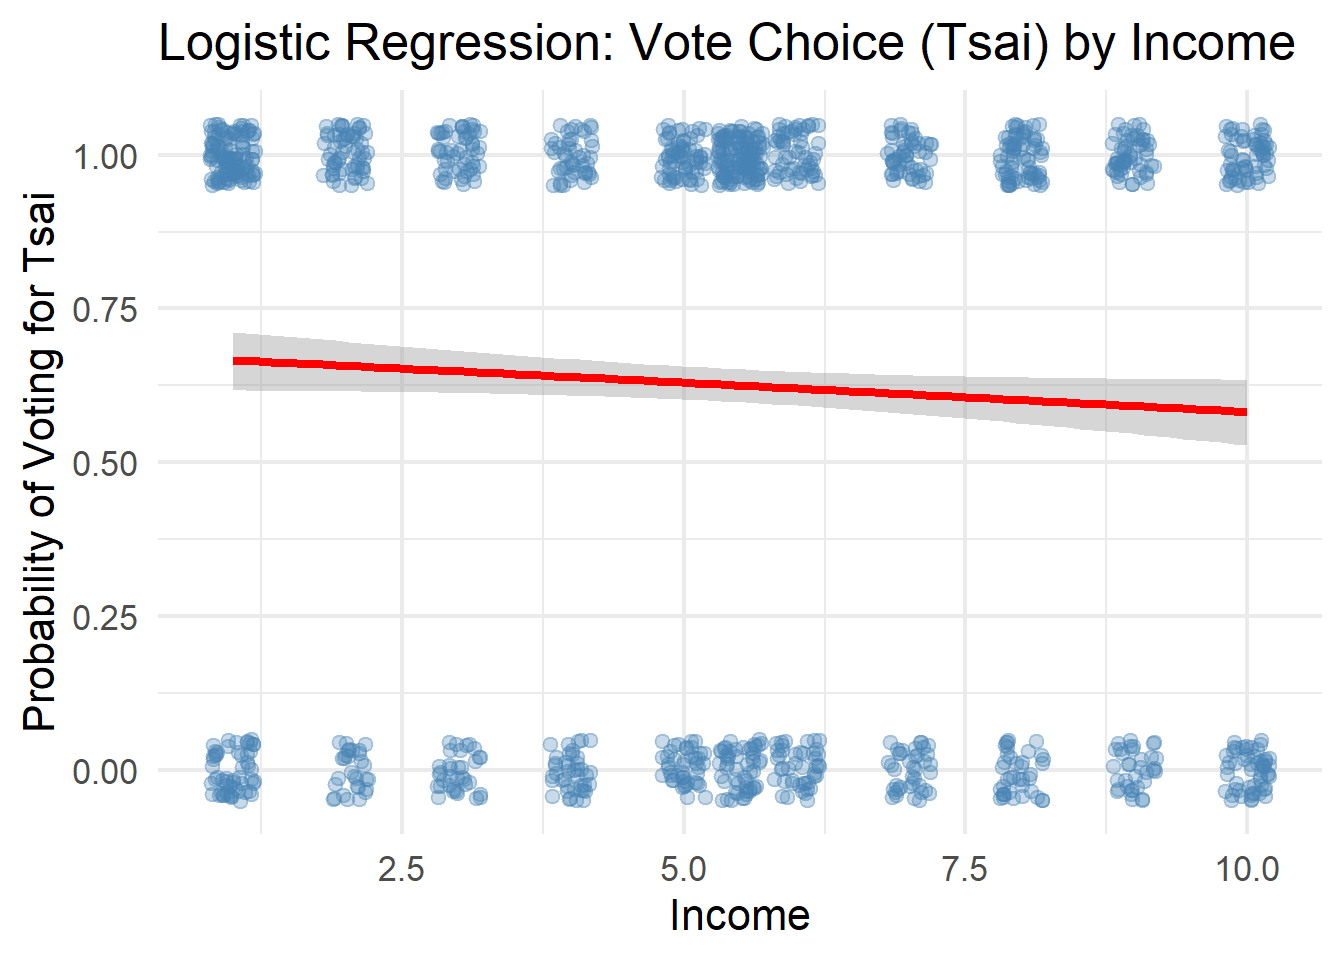
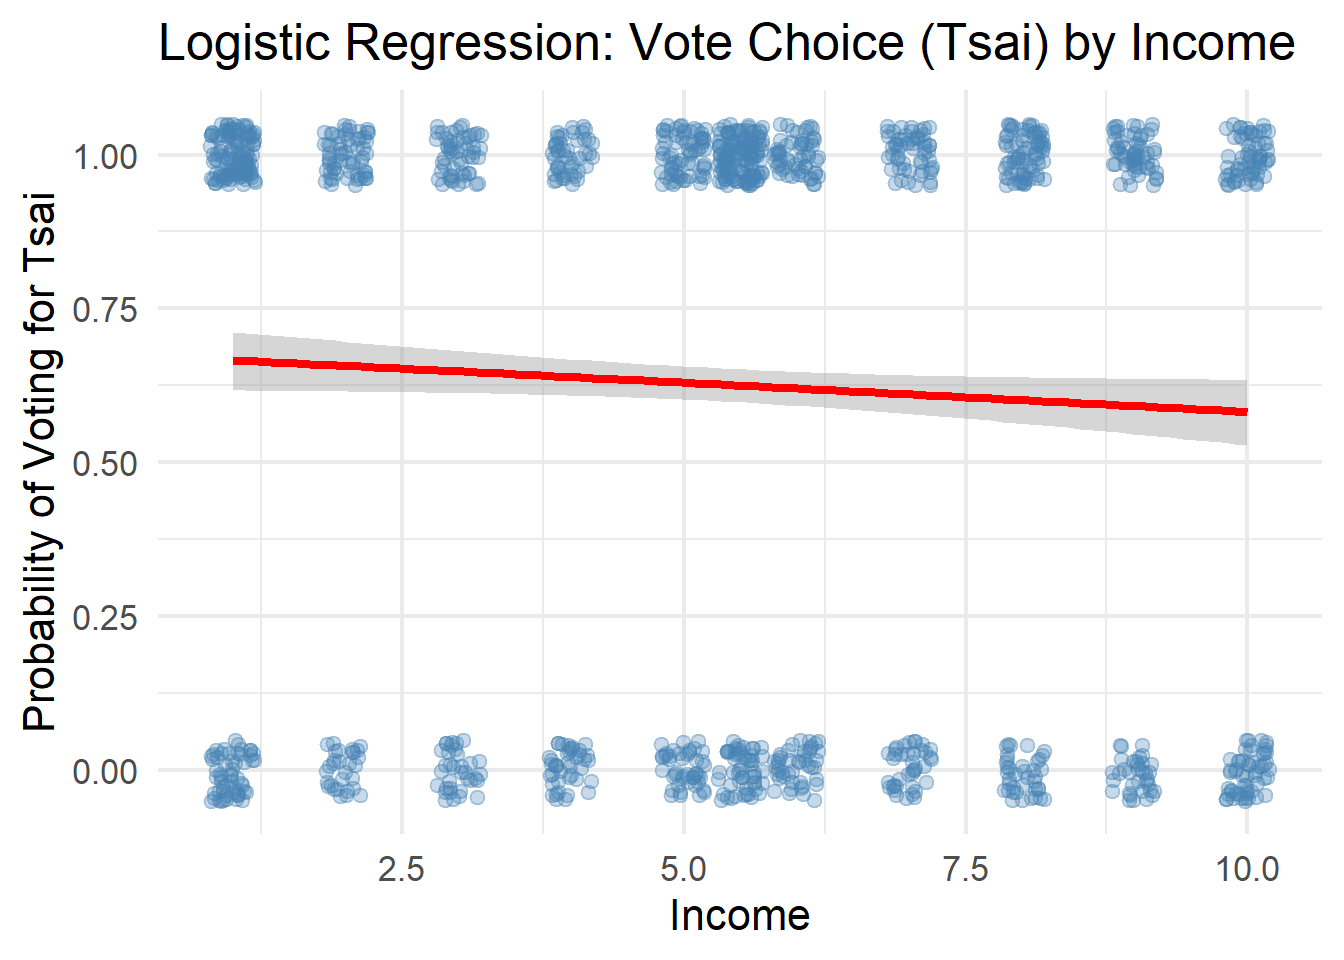
Publish assignment03 with outputs and visuals

diff --git a/assignment03.html b/assignment03.html
@@ -21,6 +21,41 @@ ul.task-list li input[type="checkbox"] {
   margin: 0 0.8em 0.2em -1em; /* quarto-specific, see https://github.com/quarto-dev/quarto-cli/issues/4556 */ 
   vertical-align: middle;
 }
+/* CSS for syntax highlighting */
+html { -webkit-text-size-adjust: 100%; }
+pre > code.sourceCode { white-space: pre; position: relative; }
+pre > code.sourceCode > span { display: inline-block; line-height: 1.25; }
+pre > code.sourceCode > span:empty { height: 1.2em; }
+.sourceCode { overflow: visible; }
+code.sourceCode > span { color: inherit; text-decoration: inherit; }
+div.sourceCode { margin: 1em 0; }
+pre.sourceCode { margin: 0; }
+@media screen {
+div.sourceCode { overflow: auto; }
+}
+@media print {
+pre > code.sourceCode { white-space: pre-wrap; }
+pre > code.sourceCode > span { text-indent: -5em; padding-left: 5em; }
+}
+pre.numberSource code
+  { counter-reset: source-line 0; }
+pre.numberSource code > span
+  { position: relative; left: -4em; counter-increment: source-line; }
+pre.numberSource code > span > a:first-child::before
+  { content: counter(source-line);
+    position: relative; left: -1em; text-align: right; vertical-align: baseline;
+    border: none; display: inline-block;
+    -webkit-touch-callout: none; -webkit-user-select: none;
+    -khtml-user-select: none; -moz-user-select: none;
+    -ms-user-select: none; user-select: none;
+    padding: 0 4px; width: 4em;
+  }
+pre.numberSource { margin-left: 3em;  padding-left: 4px; }
+div.sourceCode
+  {   }
+@media screen {
+pre > code.sourceCode > span > a:first-child::before { text-decoration: underline; }
+}
 </style>
 
 
@@ -192,7 +227,10 @@ ul.task-list li input[type="checkbox"] {
   <li><a href="#c.-vote-choice-by-income" id="toc-c.-vote-choice-by-income" class="nav-link" data-scroll-target="#c.-vote-choice-by-income">c.&nbsp;Vote Choice by Income</a></li>
   </ul></li>
   <li><a href="#what-is-the-problem-why" id="toc-what-is-the-problem-why" class="nav-link" data-scroll-target="#what-is-the-problem-why">4. What is the Problem? Why?</a></li>
-  <li><a href="#what-can-be-done-to-improve-prediction" id="toc-what-can-be-done-to-improve-prediction" class="nav-link" data-scroll-target="#what-can-be-done-to-improve-prediction">5. What Can Be Done to Improve Prediction?</a></li>
+  <li><a href="#what-can-be-done-to-improve-prediction" id="toc-what-can-be-done-to-improve-prediction" class="nav-link" data-scroll-target="#what-can-be-done-to-improve-prediction">5. What Can Be Done to Improve Prediction?</a>
+  <ul class="collapse">
+  <li><a href="#logistic-regression-plots" id="toc-logistic-regression-plots" class="nav-link" data-scroll-target="#logistic-regression-plots">Logistic Regression Plots</a></li>
+  </ul></li>
   </ul>
 </nav>
     </div>
@@ -226,59 +264,252 @@ ul.task-list li input[type="checkbox"] {
 
 <section id="setup-packages-and-data" class="level2">
 <h2 class="anchored" data-anchor-id="setup-packages-and-data">Setup: Packages and Data</h2>
-<pre class="{r} library(haven) library(tidyverse)}"><code></code></pre>
-<p><code>rrr TEDS_2016 &lt;- read_stata("https://github.com/datageneration/home/blob/master/DataProgramming/data/TEDS_2016.dta?raw=true")}</code></p>
+<div class="cell">
+<details class="code-fold">
+<summary>Code</summary>
+<div class="code-copy-outer-scaffold"><div class="sourceCode cell-code" id="cb1"><pre class="sourceCode r code-with-copy"><code class="sourceCode r"><span id="cb1-1"><a href="#cb1-1" aria-hidden="true" tabindex="-1"></a><span class="fu">library</span>(haven)</span>
+<span id="cb1-2"><a href="#cb1-2" aria-hidden="true" tabindex="-1"></a><span class="fu">library</span>(tidyverse)</span></code></pre></div><button title="Copy to Clipboard" class="code-copy-button"><i class="bi"></i></button></div>
+</details>
+</div>
+<div class="cell">
+<details class="code-fold">
+<summary>Code</summary>
+<div class="code-copy-outer-scaffold"><div class="sourceCode cell-code" id="cb2"><pre class="sourceCode r code-with-copy"><code class="sourceCode r"><span id="cb2-1"><a href="#cb2-1" aria-hidden="true" tabindex="-1"></a>TEDS_2016 <span class="ot">&lt;-</span> <span class="fu">read_stata</span>(<span class="st">"https://github.com/datageneration/home/blob/master/DataProgramming/data/TEDS_2016.dta?raw=true"</span>)</span></code></pre></div><button title="Copy to Clipboard" class="code-copy-button"><i class="bi"></i></button></div>
+</details>
+</div>
 <hr>
 </section>
 <section id="multiple-regression-model" class="level2">
 <h2 class="anchored" data-anchor-id="multiple-regression-model">1. Multiple Regression Model</h2>
-<p>I am using <code>votetsai</code> as the dependent variable and <code>Age</code>, <code>Education</code>, and <code>Income</code> as predictors.</p>
-<p><code>rrr model &lt;- lm(votetsai ~ Age + Edu + income, data = TEDS_2016) summary(model)}</code></p>
+<p>Using <code>votetsai</code> as the dependent variable and <code>age</code>, <code>edu</code>, and <code>income</code> as predictors.</p>
+<div class="cell">
+<details class="code-fold">
+<summary>Code</summary>
+<div class="code-copy-outer-scaffold"><div class="sourceCode cell-code" id="cb3"><pre class="sourceCode r code-with-copy"><code class="sourceCode r"><span id="cb3-1"><a href="#cb3-1" aria-hidden="true" tabindex="-1"></a>model <span class="ot">&lt;-</span> <span class="fu">lm</span>(votetsai <span class="sc">~</span> age <span class="sc">+</span> edu <span class="sc">+</span> income, <span class="at">data =</span> TEDS_2016)</span>
+<span id="cb3-2"><a href="#cb3-2" aria-hidden="true" tabindex="-1"></a><span class="fu">summary</span>(model)</span></code></pre></div><button title="Copy to Clipboard" class="code-copy-button"><i class="bi"></i></button></div>
+</details>
+<div class="cell-output cell-output-stdout">
+<pre><code>
+Call:
+lm(formula = votetsai ~ age + edu + income, data = TEDS_2016)
+
+Residuals:
+    Min      1Q  Median      3Q     Max 
+-0.8095 -0.5806  0.3123  0.3751  0.6035 
+
+Coefficients:
+             Estimate Std. Error t value Pr(&gt;|t|)    
+(Intercept)  1.085494   0.085071  12.760  &lt; 2e-16 ***
+age         -0.005045   0.001058  -4.766 2.10e-06 ***
+edu         -0.055280   0.012286  -4.499 7.45e-06 ***
+income      -0.004692   0.005155  -0.910    0.363    
+---
+Signif. codes:  0 '***' 0.001 '**' 0.01 '*' 0.05 '.' 0.1 ' ' 1
+
+Residual standard error: 0.4789 on 1253 degrees of freedom
+  (433 observations deleted due to missingness)
+Multiple R-squared:  0.02362,   Adjusted R-squared:  0.02128 
+F-statistic:  10.1 on 3 and 1253 DF,  p-value: 1.407e-06</code></pre>
+</div>
+</div>
 <hr>
 </section>
 <section id="the-regplot-function" class="level2">
 <h2 class="anchored" data-anchor-id="the-regplot-function">2. The <code>regplot</code> Function</h2>
-<p>Now I am creating a function that combines <code>lm()</code>, <code>plot()</code>, and <code>abline()</code> to plot a regression fit line.</p>
-<p><code>rrr regplot &lt;- function(x, y) {   fit &lt;- lm(y ~ x)   plot(x, y)   abline(fit, col = "red") }</code></p>
+<p>Creating a function that combines <code>lm()</code>, <code>plot()</code>, and <code>abline()</code> to plot a regression fit line.</p>
+<div class="cell">
+<details class="code-fold">
+<summary>Code</summary>
+<div class="code-copy-outer-scaffold"><div class="sourceCode cell-code" id="cb5"><pre class="sourceCode r code-with-copy"><code class="sourceCode r"><span id="cb5-1"><a href="#cb5-1" aria-hidden="true" tabindex="-1"></a>regplot <span class="ot">&lt;-</span> <span class="cf">function</span>(x, y) {</span>
+<span id="cb5-2"><a href="#cb5-2" aria-hidden="true" tabindex="-1"></a>  fit <span class="ot">&lt;-</span> <span class="fu">lm</span>(y <span class="sc">~</span> x)</span>
+<span id="cb5-3"><a href="#cb5-3" aria-hidden="true" tabindex="-1"></a>  <span class="fu">plot</span>(x, y)</span>
+<span id="cb5-4"><a href="#cb5-4" aria-hidden="true" tabindex="-1"></a>  <span class="fu">abline</span>(fit, <span class="at">col =</span> <span class="st">"red"</span>)</span>
+<span id="cb5-5"><a href="#cb5-5" aria-hidden="true" tabindex="-1"></a>}</span></code></pre></div><button title="Copy to Clipboard" class="code-copy-button"><i class="bi"></i></button></div>
+</details>
+</div>
 <hr>
 </section>
 <section id="running-regplot-on-the-dependent-variable" class="level2">
 <h2 class="anchored" data-anchor-id="running-regplot-on-the-dependent-variable">3. Running <code>regplot</code> on the Dependent Variable</h2>
 <section id="a.-vote-choice-by-age" class="level3">
 <h3 class="anchored" data-anchor-id="a.-vote-choice-by-age">a. Vote Choice by Age</h3>
-<p><code>rrr regplot(TEDS_2016$Age, TEDS_2016$votetsai) title(main = "Vote Choice (Tsai) by Age", xlab = "Age", ylab = "Vote (0 = Other, 1 = Tsai)")}</code></p>
+<div class="cell">
+<details class="code-fold">
+<summary>Code</summary>
+<div class="code-copy-outer-scaffold"><div class="sourceCode cell-code" id="cb6"><pre class="sourceCode r code-with-copy"><code class="sourceCode r"><span id="cb6-1"><a href="#cb6-1" aria-hidden="true" tabindex="-1"></a><span class="fu">regplot</span>(TEDS_2016<span class="sc">$</span>age, TEDS_2016<span class="sc">$</span>votetsai)</span>
+<span id="cb6-2"><a href="#cb6-2" aria-hidden="true" tabindex="-1"></a><span class="fu">title</span>(<span class="at">main =</span> <span class="st">"Vote Choice (Tsai) by Age"</span>,</span>
+<span id="cb6-3"><a href="#cb6-3" aria-hidden="true" tabindex="-1"></a>      <span class="at">xlab =</span> <span class="st">"Age"</span>, <span class="at">ylab =</span> <span class="st">"Vote (0 = Other, 1 = Tsai)"</span>)</span></code></pre></div><button title="Copy to Clipboard" class="code-copy-button"><i class="bi"></i></button></div>
+</details>
+<div class="cell-output-display">
+<div>
+<figure class="figure">
+<p><img src="assignment03_files/figure-html/unnamed-chunk-5-1.png" class="img-fluid figure-img" width="672"></p>
+</figure>
+</div>
+</div>
+</div>
 </section>
 <section id="b.-vote-choice-by-education" class="level3">
 <h3 class="anchored" data-anchor-id="b.-vote-choice-by-education">b. Vote Choice by Education</h3>
-<p><code>rrr regplot(TEDS_2016$Edu, TEDS_2016$votetsai) title(main = "Vote Choice (Tsai) by Education", xlab = "Education", ylab = "Vote (0 = Other, 1 = Tsai)")}</code></p>
+<div class="cell">
+<details class="code-fold">
+<summary>Code</summary>
+<div class="code-copy-outer-scaffold"><div class="sourceCode cell-code" id="cb7"><pre class="sourceCode r code-with-copy"><code class="sourceCode r"><span id="cb7-1"><a href="#cb7-1" aria-hidden="true" tabindex="-1"></a><span class="fu">regplot</span>(TEDS_2016<span class="sc">$</span>edu, TEDS_2016<span class="sc">$</span>votetsai)</span>
+<span id="cb7-2"><a href="#cb7-2" aria-hidden="true" tabindex="-1"></a><span class="fu">title</span>(<span class="at">main =</span> <span class="st">"Vote Choice (Tsai) by Education"</span>,</span>
+<span id="cb7-3"><a href="#cb7-3" aria-hidden="true" tabindex="-1"></a>      <span class="at">xlab =</span> <span class="st">"Education"</span>, <span class="at">ylab =</span> <span class="st">"Vote (0 = Other, 1 = Tsai)"</span>)</span></code></pre></div><button title="Copy to Clipboard" class="code-copy-button"><i class="bi"></i></button></div>
+</details>
+<div class="cell-output-display">
+<div>
+<figure class="figure">
+<p><img src="assignment03_files/figure-html/unnamed-chunk-6-1.png" class="img-fluid figure-img" width="672"></p>
+</figure>
+</div>
+</div>
+</div>
 </section>
 <section id="c.-vote-choice-by-income" class="level3">
 <h3 class="anchored" data-anchor-id="c.-vote-choice-by-income">c.&nbsp;Vote Choice by Income</h3>
-<p><code>rrr regplot(TEDS_2016$income, TEDS_2016$votetsai) title(main = "Vote Choice (Tsai) by Income", xlab = "Income", ylab = "Vote (0 = Other, 1 = Tsai)")}</code></p>
+<div class="cell">
+<details class="code-fold">
+<summary>Code</summary>
+<div class="code-copy-outer-scaffold"><div class="sourceCode cell-code" id="cb8"><pre class="sourceCode r code-with-copy"><code class="sourceCode r"><span id="cb8-1"><a href="#cb8-1" aria-hidden="true" tabindex="-1"></a><span class="fu">regplot</span>(TEDS_2016<span class="sc">$</span>income, TEDS_2016<span class="sc">$</span>votetsai)</span>
+<span id="cb8-2"><a href="#cb8-2" aria-hidden="true" tabindex="-1"></a><span class="fu">title</span>(<span class="at">main =</span> <span class="st">"Vote Choice (Tsai) by Income"</span>,</span>
+<span id="cb8-3"><a href="#cb8-3" aria-hidden="true" tabindex="-1"></a>      <span class="at">xlab =</span> <span class="st">"Income"</span>, <span class="at">ylab =</span> <span class="st">"Vote (0 = Other, 1 = Tsai)"</span>)</span></code></pre></div><button title="Copy to Clipboard" class="code-copy-button"><i class="bi"></i></button></div>
+</details>
+<div class="cell-output-display">
+<div>
+<figure class="figure">
+<p><img src="assignment03_files/figure-html/unnamed-chunk-7-1.png" class="img-fluid figure-img" width="672"></p>
+</figure>
+</div>
+</div>
+</div>
 <hr>
 </section>
 </section>
 <section id="what-is-the-problem-why" class="level2">
 <h2 class="anchored" data-anchor-id="what-is-the-problem-why">4. What is the Problem? Why?</h2>
-<p>The problem is that the dependent variable <code>votetsai</code> is binary (0 = voted for other candidate, 1 = voted for Tsai Ing-wen). Linear regression assumes the outcome is continuous, so applying it to a binary variable produces several issues:</p>
+<p>The problem is that the dependent variable <code>votetsai</code> is <strong>binary</strong> (0 = voted for other candidate, 1 = voted for Tsai Ing-wen). Linear regression assumes the outcome is <strong>continuous</strong>, so applying it to a binary variable produces several issues:</p>
 <ul>
-<li>The regression line can predict values outside the range of 0 and 1, which are not valid probabilities</li>
-<li>The relationship between predictors and a binary outcome is inherently non-linear</li>
-<li>The assumption of normally distributed residuals is violated since the DV only takes two values</li>
-<li>This makes the regression line a poor and misleading fit, as visible in the plots above</li>
+<li>The regression line can predict values <strong>outside the range of 0 and 1</strong>, which are not valid probabilities</li>
+<li>The relationship between predictors and a binary outcome is inherently <strong>non-linear</strong></li>
+<li>The assumption of <strong>normally distributed residuals</strong> is violated since the DV only takes two values</li>
+<li>This makes the regression line a poor and misleading fit, as visible in the plots above where data points cluster at 0 and 1 but the fitted line cuts through the middle</li>
 </ul>
 <hr>
 </section>
 <section id="what-can-be-done-to-improve-prediction" class="level2">
 <h2 class="anchored" data-anchor-id="what-can-be-done-to-improve-prediction">5. What Can Be Done to Improve Prediction?</h2>
-<p>Since the dependent variable is binary, logistic regression is the appropriate model. It models the log-odds of the outcome and constrains predictions between 0 and 1.</p>
-<p><code>rrr logit_model &lt;- glm(votetsai ~ Age + Edu + income,                    data = TEDS_2016,                    family = binomial) summary(logit_model)}</code></p>
-<p>We can visualize the logistic fit for Age:</p>
-<p><code>rrr TEDS_2016_clean &lt;- TEDS_2016 %&gt;%   dplyr::select(votetsai, Age, Edu, income) %&gt;%   drop_na()  ggplot(TEDS_2016_clean, aes(x = Age, y = votetsai)) +   geom_jitter(height = 0.05, alpha = 0.3, color = "steelblue") +   geom_smooth(method = "glm",               method.args = list(family = binomial),               se = TRUE,               color = "red") +   labs(title = "Logistic Regression: Vote Choice (Tsai) by Age",        x = "Age", y = "Probability of Voting for Tsai") +   theme_minimal(base_size = 16)}</code></p>
-<p><code>rrr ggplot(TEDS_2016_clean, aes(x = Edu, y = votetsai)) +   geom_jitter(height = 0.05, alpha = 0.3, color = "steelblue") +   geom_smooth(method = "glm",               method.args = list(family = binomial),               se = TRUE,               color = "red") +   labs(title = "Logistic Regression: Vote Choice (Tsai) by Education",        x = "Education", y = "Probability of Voting for Tsai") +   theme_minimal(base_size = 16)}</code></p>
-<p><code>rrr ggplot(TEDS_2016_clean, aes(x = income, y = votetsai)) +   geom_jitter(height = 0.05, alpha = 0.3, color = "steelblue") +   geom_smooth(method = "glm",               method.args = list(family = binomial),               se = TRUE,               color = "red") +   labs(title = "Logistic Regression: Vote Choice (Tsai) by Income",        x = "Income", y = "Probability of Voting for Tsai") +   theme_minimal(base_size = 16)}</code></p>
+<p>Since the dependent variable is binary, <strong>logistic regression</strong> is the appropriate model. It models the <strong>log-odds</strong> of the outcome and constrains all predictions between 0 and 1.</p>
+<div class="cell">
+<details class="code-fold">
+<summary>Code</summary>
+<div class="code-copy-outer-scaffold"><div class="sourceCode cell-code" id="cb9"><pre class="sourceCode r code-with-copy"><code class="sourceCode r"><span id="cb9-1"><a href="#cb9-1" aria-hidden="true" tabindex="-1"></a>logit_model <span class="ot">&lt;-</span> <span class="fu">glm</span>(votetsai <span class="sc">~</span> age <span class="sc">+</span> edu <span class="sc">+</span> income,</span>
+<span id="cb9-2"><a href="#cb9-2" aria-hidden="true" tabindex="-1"></a>                   <span class="at">data =</span> TEDS_2016,</span>
+<span id="cb9-3"><a href="#cb9-3" aria-hidden="true" tabindex="-1"></a>                   <span class="at">family =</span> binomial)</span>
+<span id="cb9-4"><a href="#cb9-4" aria-hidden="true" tabindex="-1"></a><span class="fu">summary</span>(logit_model)</span></code></pre></div><button title="Copy to Clipboard" class="code-copy-button"><i class="bi"></i></button></div>
+</details>
+<div class="cell-output cell-output-stdout">
+<pre><code>
+Call:
+glm(formula = votetsai ~ age + edu + income, family = binomial, 
+    data = TEDS_2016)
+
+Coefficients:
+             Estimate Std. Error z value Pr(&gt;|z|)    
+(Intercept)  2.508583   0.379569   6.609 3.87e-11 ***
+age         -0.021731   0.004656  -4.668 3.05e-06 ***
+edu         -0.238448   0.054069  -4.410 1.03e-05 ***
+income      -0.020470   0.022460  -0.911    0.362    
+---
+Signif. codes:  0 '***' 0.001 '**' 0.01 '*' 0.05 '.' 0.1 ' ' 1
+
+(Dispersion parameter for binomial family taken to be 1)
+
+    Null deviance: 1661.8  on 1256  degrees of freedom
+Residual deviance: 1632.0  on 1253  degrees of freedom
+  (433 observations deleted due to missingness)
+AIC: 1640
+
+Number of Fisher Scoring iterations: 4</code></pre>
+</div>
+</div>
+<section id="logistic-regression-plots" class="level3">
+<h3 class="anchored" data-anchor-id="logistic-regression-plots">Logistic Regression Plots</h3>
+<div class="cell">
+<details class="code-fold">
+<summary>Code</summary>
+<div class="code-copy-outer-scaffold"><div class="sourceCode cell-code" id="cb11"><pre class="sourceCode r code-with-copy"><code class="sourceCode r"><span id="cb11-1"><a href="#cb11-1" aria-hidden="true" tabindex="-1"></a>TEDS_2016_clean <span class="ot">&lt;-</span> TEDS_2016 <span class="sc">%&gt;%</span></span>
+<span id="cb11-2"><a href="#cb11-2" aria-hidden="true" tabindex="-1"></a>  dplyr<span class="sc">::</span><span class="fu">select</span>(votetsai, age, edu, income) <span class="sc">%&gt;%</span></span>
+<span id="cb11-3"><a href="#cb11-3" aria-hidden="true" tabindex="-1"></a>  <span class="fu">drop_na</span>()</span></code></pre></div><button title="Copy to Clipboard" class="code-copy-button"><i class="bi"></i></button></div>
+</details>
+</div>
+<div class="cell">
+<details class="code-fold">
+<summary>Code</summary>
+<div class="code-copy-outer-scaffold"><div class="sourceCode cell-code" id="cb12"><pre class="sourceCode r code-with-copy"><code class="sourceCode r"><span id="cb12-1"><a href="#cb12-1" aria-hidden="true" tabindex="-1"></a><span class="fu">ggplot</span>(TEDS_2016_clean, <span class="fu">aes</span>(<span class="at">x =</span> age, <span class="at">y =</span> votetsai)) <span class="sc">+</span></span>
+<span id="cb12-2"><a href="#cb12-2" aria-hidden="true" tabindex="-1"></a>  <span class="fu">geom_jitter</span>(<span class="at">height =</span> <span class="fl">0.05</span>, <span class="at">alpha =</span> <span class="fl">0.3</span>, <span class="at">color =</span> <span class="st">"steelblue"</span>) <span class="sc">+</span></span>
+<span id="cb12-3"><a href="#cb12-3" aria-hidden="true" tabindex="-1"></a>  <span class="fu">geom_smooth</span>(<span class="at">method =</span> <span class="st">"glm"</span>,</span>
+<span id="cb12-4"><a href="#cb12-4" aria-hidden="true" tabindex="-1"></a>              <span class="at">method.args =</span> <span class="fu">list</span>(<span class="at">family =</span> binomial),</span>
+<span id="cb12-5"><a href="#cb12-5" aria-hidden="true" tabindex="-1"></a>              <span class="at">se =</span> <span class="cn">TRUE</span>,</span>
+<span id="cb12-6"><a href="#cb12-6" aria-hidden="true" tabindex="-1"></a>              <span class="at">color =</span> <span class="st">"red"</span>) <span class="sc">+</span></span>
+<span id="cb12-7"><a href="#cb12-7" aria-hidden="true" tabindex="-1"></a>  <span class="fu">labs</span>(<span class="at">title =</span> <span class="st">"Logistic Regression: Vote Choice (Tsai) by Age"</span>,</span>
+<span id="cb12-8"><a href="#cb12-8" aria-hidden="true" tabindex="-1"></a>       <span class="at">x =</span> <span class="st">"Age"</span>, <span class="at">y =</span> <span class="st">"Probability of Voting for Tsai"</span>) <span class="sc">+</span></span>
+<span id="cb12-9"><a href="#cb12-9" aria-hidden="true" tabindex="-1"></a>  <span class="fu">theme_minimal</span>(<span class="at">base_size =</span> <span class="dv">16</span>)</span></code></pre></div><button title="Copy to Clipboard" class="code-copy-button"><i class="bi"></i></button></div>
+</details>
+<div class="cell-output-display">
+<div>
+<figure class="figure">
+<p><img src="assignment03_files/figure-html/unnamed-chunk-10-1.png" class="img-fluid figure-img" width="672"></p>
+</figure>
+</div>
+</div>
+</div>
+<div class="cell">
+<details class="code-fold">
+<summary>Code</summary>
+<div class="code-copy-outer-scaffold"><div class="sourceCode cell-code" id="cb13"><pre class="sourceCode r code-with-copy"><code class="sourceCode r"><span id="cb13-1"><a href="#cb13-1" aria-hidden="true" tabindex="-1"></a><span class="fu">ggplot</span>(TEDS_2016_clean, <span class="fu">aes</span>(<span class="at">x =</span> edu, <span class="at">y =</span> votetsai)) <span class="sc">+</span></span>
+<span id="cb13-2"><a href="#cb13-2" aria-hidden="true" tabindex="-1"></a>  <span class="fu">geom_jitter</span>(<span class="at">height =</span> <span class="fl">0.05</span>, <span class="at">alpha =</span> <span class="fl">0.3</span>, <span class="at">color =</span> <span class="st">"steelblue"</span>) <span class="sc">+</span></span>
+<span id="cb13-3"><a href="#cb13-3" aria-hidden="true" tabindex="-1"></a>  <span class="fu">geom_smooth</span>(<span class="at">method =</span> <span class="st">"glm"</span>,</span>
+<span id="cb13-4"><a href="#cb13-4" aria-hidden="true" tabindex="-1"></a>              <span class="at">method.args =</span> <span class="fu">list</span>(<span class="at">family =</span> binomial),</span>
+<span id="cb13-5"><a href="#cb13-5" aria-hidden="true" tabindex="-1"></a>              <span class="at">se =</span> <span class="cn">TRUE</span>,</span>
+<span id="cb13-6"><a href="#cb13-6" aria-hidden="true" tabindex="-1"></a>              <span class="at">color =</span> <span class="st">"red"</span>) <span class="sc">+</span></span>
+<span id="cb13-7"><a href="#cb13-7" aria-hidden="true" tabindex="-1"></a>  <span class="fu">labs</span>(<span class="at">title =</span> <span class="st">"Logistic Regression: Vote Choice (Tsai) by Education"</span>,</span>
+<span id="cb13-8"><a href="#cb13-8" aria-hidden="true" tabindex="-1"></a>       <span class="at">x =</span> <span class="st">"Education"</span>, <span class="at">y =</span> <span class="st">"Probability of Voting for Tsai"</span>) <span class="sc">+</span></span>
+<span id="cb13-9"><a href="#cb13-9" aria-hidden="true" tabindex="-1"></a>  <span class="fu">theme_minimal</span>(<span class="at">base_size =</span> <span class="dv">16</span>)</span></code></pre></div><button title="Copy to Clipboard" class="code-copy-button"><i class="bi"></i></button></div>
+</details>
+<div class="cell-output-display">
+<div>
+<figure class="figure">
+<p><img src="assignment03_files/figure-html/unnamed-chunk-11-1.png" class="img-fluid figure-img" width="672"></p>
+</figure>
+</div>
+</div>
+</div>
+<div class="cell">
+<details class="code-fold">
+<summary>Code</summary>
+<div class="code-copy-outer-scaffold"><div class="sourceCode cell-code" id="cb14"><pre class="sourceCode r code-with-copy"><code class="sourceCode r"><span id="cb14-1"><a href="#cb14-1" aria-hidden="true" tabindex="-1"></a><span class="fu">ggplot</span>(TEDS_2016_clean, <span class="fu">aes</span>(<span class="at">x =</span> income, <span class="at">y =</span> votetsai)) <span class="sc">+</span></span>
+<span id="cb14-2"><a href="#cb14-2" aria-hidden="true" tabindex="-1"></a>  <span class="fu">geom_jitter</span>(<span class="at">height =</span> <span class="fl">0.05</span>, <span class="at">alpha =</span> <span class="fl">0.3</span>, <span class="at">color =</span> <span class="st">"steelblue"</span>) <span class="sc">+</span></span>
+<span id="cb14-3"><a href="#cb14-3" aria-hidden="true" tabindex="-1"></a>  <span class="fu">geom_smooth</span>(<span class="at">method =</span> <span class="st">"glm"</span>,</span>
+<span id="cb14-4"><a href="#cb14-4" aria-hidden="true" tabindex="-1"></a>              <span class="at">method.args =</span> <span class="fu">list</span>(<span class="at">family =</span> binomial),</span>
+<span id="cb14-5"><a href="#cb14-5" aria-hidden="true" tabindex="-1"></a>              <span class="at">se =</span> <span class="cn">TRUE</span>,</span>
+<span id="cb14-6"><a href="#cb14-6" aria-hidden="true" tabindex="-1"></a>              <span class="at">color =</span> <span class="st">"red"</span>) <span class="sc">+</span></span>
+<span id="cb14-7"><a href="#cb14-7" aria-hidden="true" tabindex="-1"></a>  <span class="fu">labs</span>(<span class="at">title =</span> <span class="st">"Logistic Regression: Vote Choice (Tsai) by Income"</span>,</span>
+<span id="cb14-8"><a href="#cb14-8" aria-hidden="true" tabindex="-1"></a>       <span class="at">x =</span> <span class="st">"Income"</span>, <span class="at">y =</span> <span class="st">"Probability of Voting for Tsai"</span>) <span class="sc">+</span></span>
+<span id="cb14-9"><a href="#cb14-9" aria-hidden="true" tabindex="-1"></a>  <span class="fu">theme_minimal</span>(<span class="at">base_size =</span> <span class="dv">16</span>)</span></code></pre></div><button title="Copy to Clipboard" class="code-copy-button"><i class="bi"></i></button></div>
+</details>
+<div class="cell-output-display">
+<div>
+<figure class="figure">
+<p><img src="assignment03_files/figure-html/unnamed-chunk-12-1.png" class="img-fluid figure-img" width="672"></p>
+</figure>
+</div>
+</div>
+</div>
 
 
+</section>
 </section>
 
 </main> <!-- /main -->